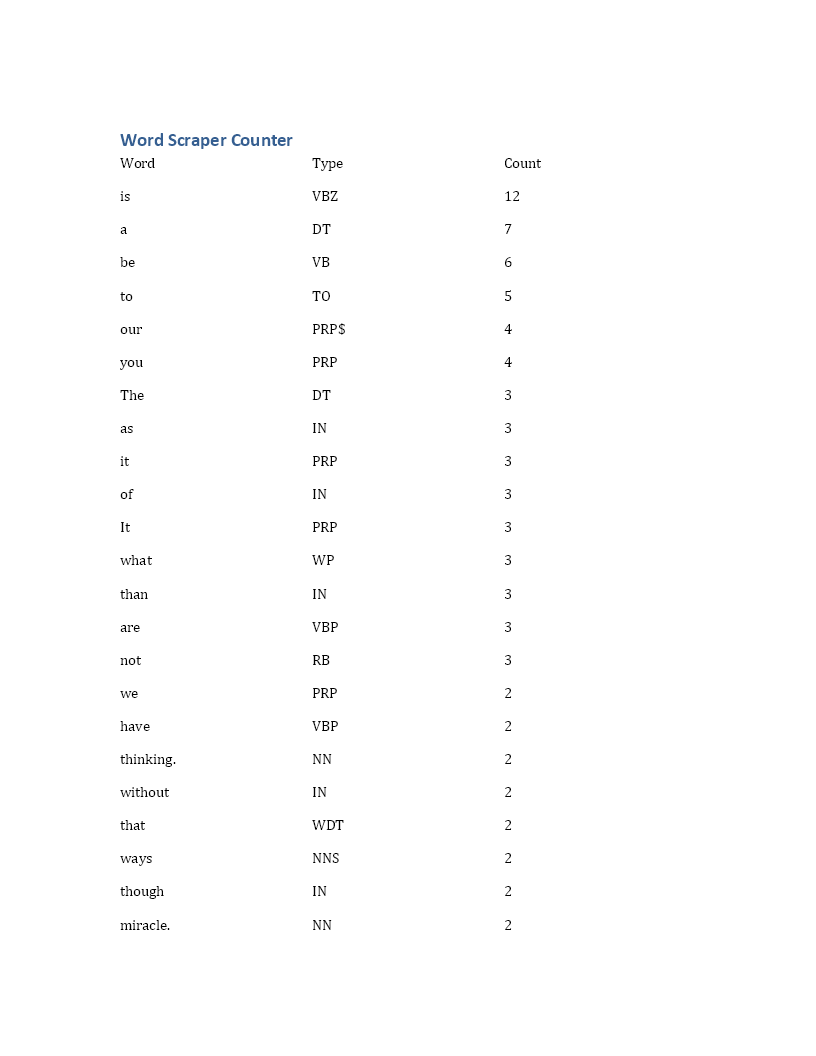
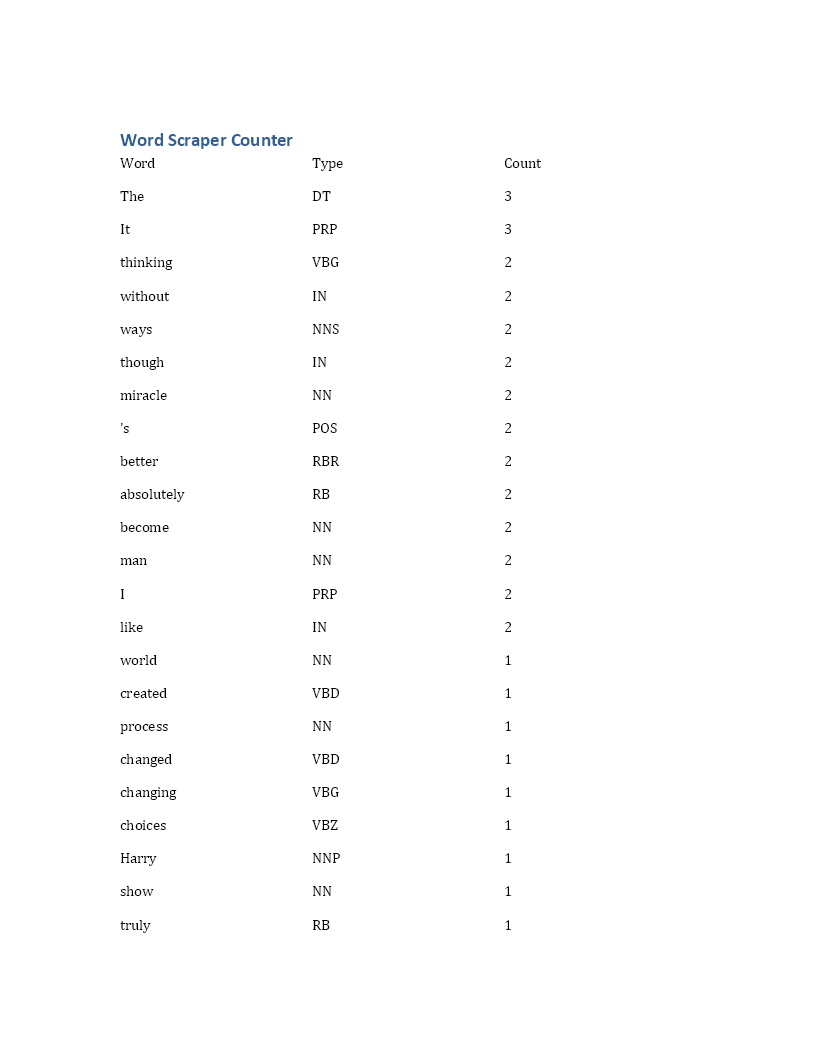
Modified Files

diff --git a/index.py b/index.py
@@ -7,9 +7,13 @@ from docx import Document
 import pandas as pd
 import matplotlib.pyplot as plt
 
-#get url 
-url = 'http://quotes.toscrape.com'
-page = requests.get(url)
+#get url  from user
+url = input("Enter url :")
+full_url = 'http://'+url
+new_url = full_url.replace("www.", "")
+
+#new_url = 'http://quotes.toscrape.com'
+page = requests.get(new_url)
 
 #extract content of the page
 soup = BeautifulSoup(page.content, 'html.parser')
@@ -24,6 +28,10 @@ quotes = [q.text.replace('“', '').replace('”', '') for q in quote]
 s = ' '
 s = s.join(quotes)
 
+#remove special characters
+bad_chars = [';', ':', '!', ".","*",",","-"]
+s = ''.join(i for i in s if not i in bad_chars)
+
 #extract words in token
 wList = word_tokenize(s)
 print(wList)
@@ -35,7 +43,7 @@ wordList = [word for word in wList if not word in stop_words]
 print(wordList)
 
 #get a words type
-word_type = nltk.pos_tag(wordsList)
+word_type = nltk.pos_tag(wordList)
 print(len(word_type))
 
 #get a word type with frequency
@@ -85,7 +93,7 @@ document.add_page_break()
 document.save('demo.docx')
 
 #Create frequency histogram of 50 most common words a
-fd = nltk.FreqDist(wordsList)
+fd = nltk.FreqDist(wordList)
 fd.plot(20)
 
 #Create DataFrame
